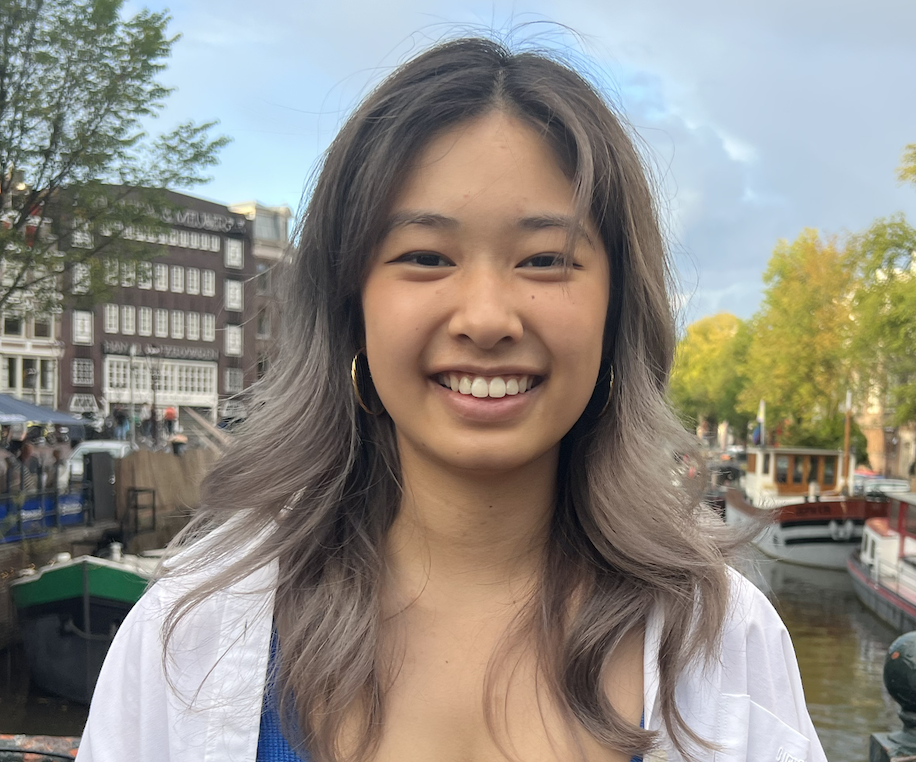
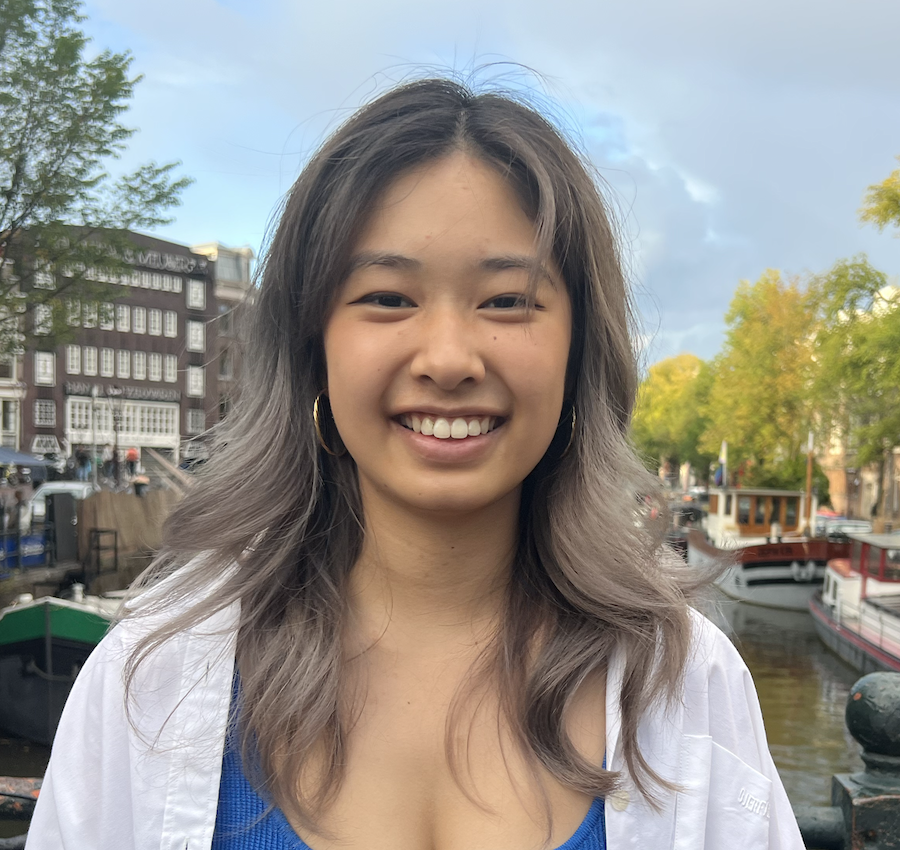
added pics

diff --git a/xiaofan-website/src/components/navbar.js b/xiaofan-website/src/components/navbar.js
@@ -2,7 +2,7 @@ import React from 'react'
 import {Navbar, NavbarBrand, NavLink, NavItem, Nav} from "reactstrap";
 import { BsLinkedin } from 'react-icons/bs';
 import { GoMarkGithub } from "react-icons/go";
-import { HiOutlineMail } from "react-icons/hi";
+import { MdEmail } from "react-icons/md";
 
 
 
@@ -14,13 +14,13 @@ export default function NavigationBar() {
             <Nav className="ml-auto" navbar>
 
               <NavItem>
-                <NavLink href="https://github.com/reactstrap/reactstrap"><BsLinkedin size={30}/> </NavLink>
+                <NavLink href="https://www.linkedin.com/in/xiaofan-li/" target="_blank" rel="noreferrer"><BsLinkedin size={30}/> </NavLink>
               </NavItem>
               <NavItem>
-                <NavLink href="https://github.com/reactstrap/reactstrap"><GoMarkGithub size={30}/> </NavLink>
+                <NavLink href="https://github.com/21xiaofanli" target="_blank" rel="noreferrer"><GoMarkGithub size={30}/> </NavLink>
               </NavItem>
               <NavItem>
-                <NavLink href="https://github.com/reactstrap/reactstrap"><HiOutlineMail size={30}/> </NavLink>
+                <NavLink href = "https://mail.google.com/mail/?view=cm&fs=1&to=xl121@illinois.edu" target="_blank" rel="noreferrer"><MdEmail size={35}/> </NavLink>
               </NavItem>
              
             </Nav>

diff --git a/xiaofan-website/src/components/about.js b/xiaofan-website/src/components/about.js
@@ -1,22 +1,31 @@
-import React from "react";
+import React, { useSyncExternalStore } from "react";
 import {Row, Col, Container, UncontrolledCarousel} from "reactstrap";
-import pfp from "../pictures/pfp.png";
 const carouselItems = [
     {
       src: require("../pictures/pfp.png"),
-      header: "Me!",
-      caption: "On my trip in Amsterdam"
+      header: " ",
+      caption: "Me"
     },
     {
-      src: require("../pictures/pfp.png"),
-      altText: "Slide 2",
-      caption: "In the Moment"
+      src: require("../pictures/hackathon.jpg"),
+      header: " ",
+      caption: "Team Photo after Hackathon"
     },
     {
-      src: require("../pictures/pfp.png"),
-      altText: "Slide 3",
-      caption: "Full of Conviction"
-    }
+      src: require("../pictures/web.jpeg"),
+      header: " ",
+      caption: "Bouldering"
+    },
+    {
+        src: require("../pictures/h4i.jpg"),
+        header: " ",
+        caption: "Hack4Impact Group Photo"
+      },
+    {
+        src: require("../pictures/doge.jpg"),
+        header: " ",
+        caption: "My dog Xiaopan"
+      },
   ];
 
 export default function About() {

diff --git a/xiaofan-website/public/index.html b/xiaofan-website/public/index.html
@@ -24,7 +24,7 @@
       work correctly both with client-side routing and a non-root public URL.
       Learn how to configure a non-root public URL by running `npm run build`.
     -->
-    <title>React App</title>
+    <title>Xiaofan Li</title>
   </head>
   <body>
     <noscript>You need to enable JavaScript to run this app.</noscript>

diff --git a/xiaofan-website/src/App.js b/xiaofan-website/src/App.js
@@ -4,7 +4,7 @@ import About from './components/about'
 import NavigationBar from './components/navbar'
 import 'bootstrap/dist/css/bootstrap.css';
 import 'bootstrap/dist/css/bootstrap.min.css';
-
+import './/css/fonts.css';
 
 class App extends Component {
   render() {

diff --git a/xiaofan-website/src/css/fonts.css b/xiaofan-website/src/css/fonts.css
@@ -1,0 +1,9 @@
+@import url('https://fonts.googleapis.com/css?family=Open+Sans');
+
+body {
+    font-family: 'Open Sans', sans-serif;
+}
+
+.carousel-inner .item img {
+    width: 50% !important;
+    }
